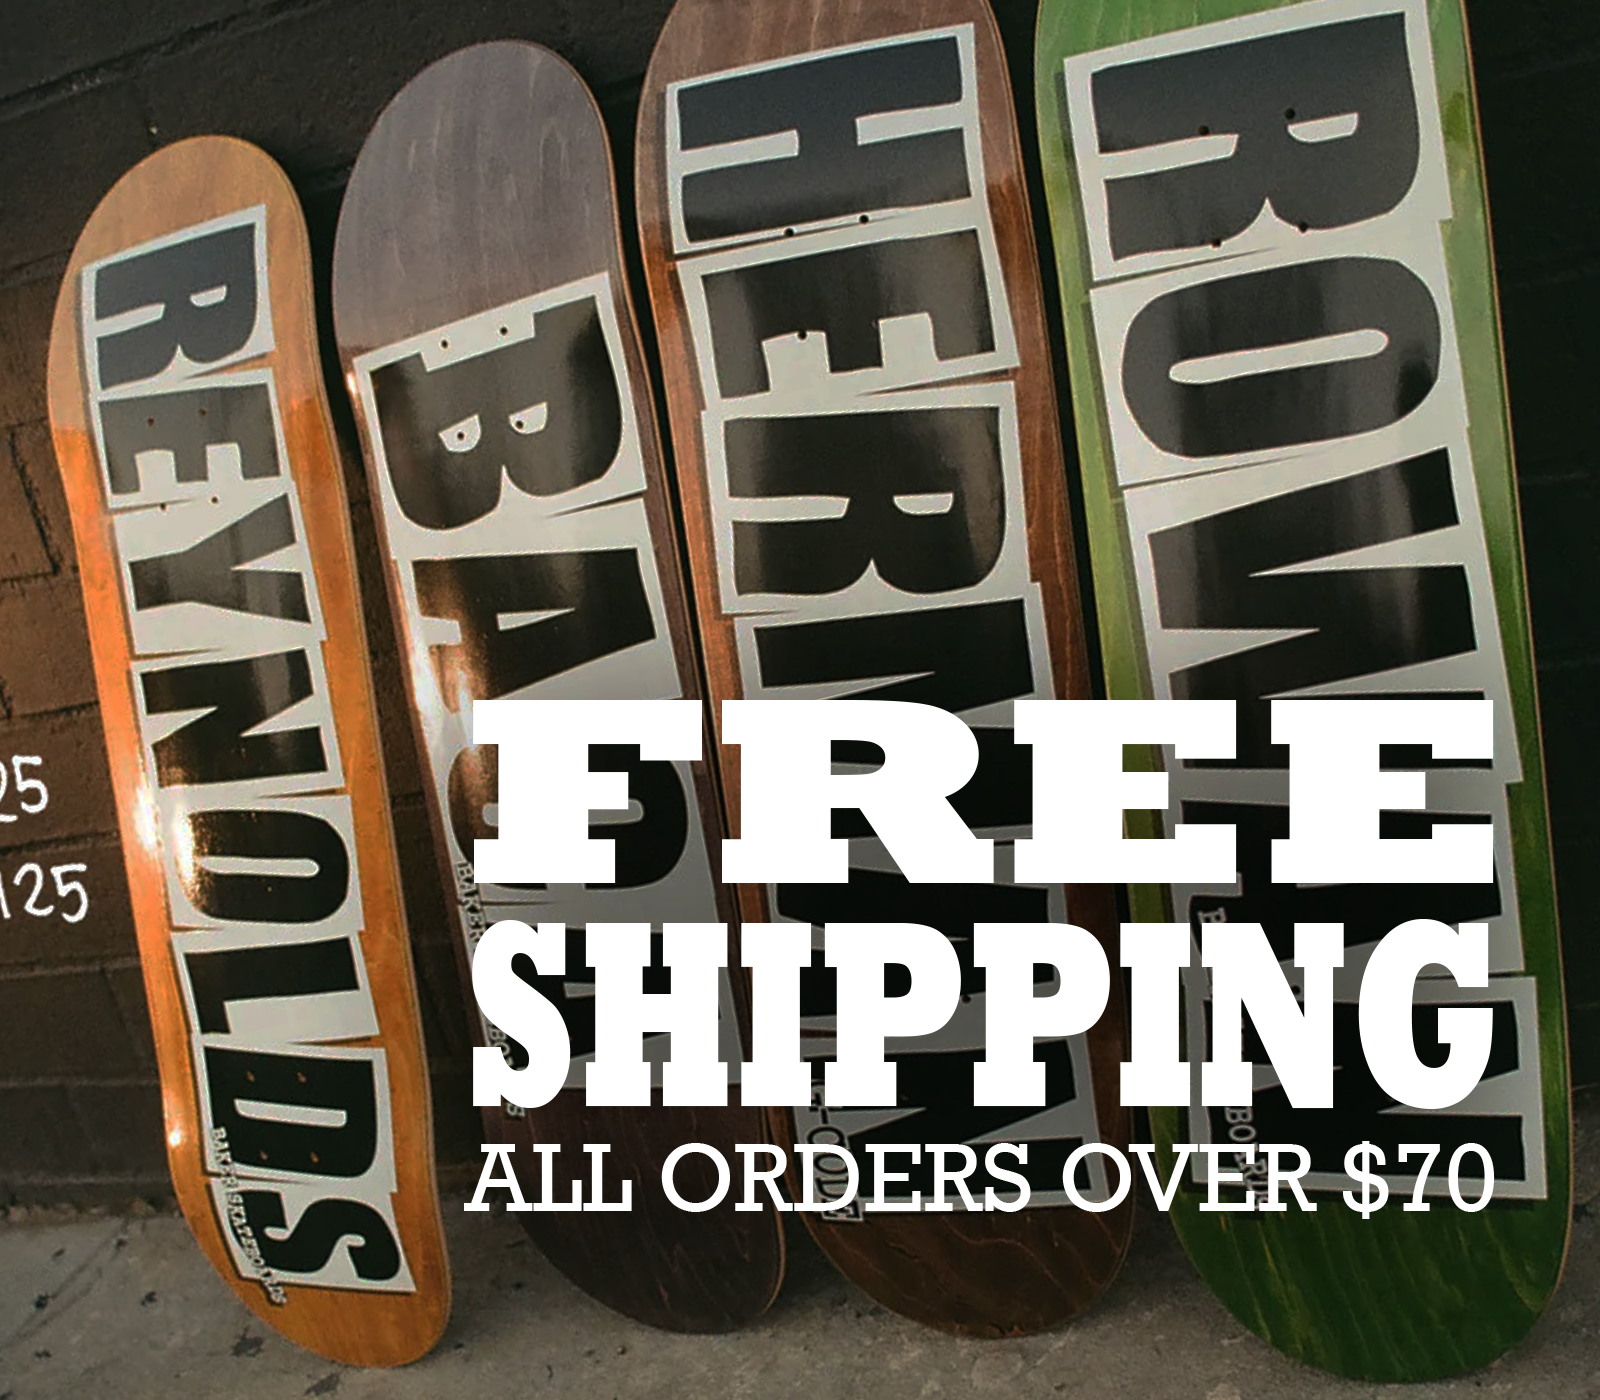
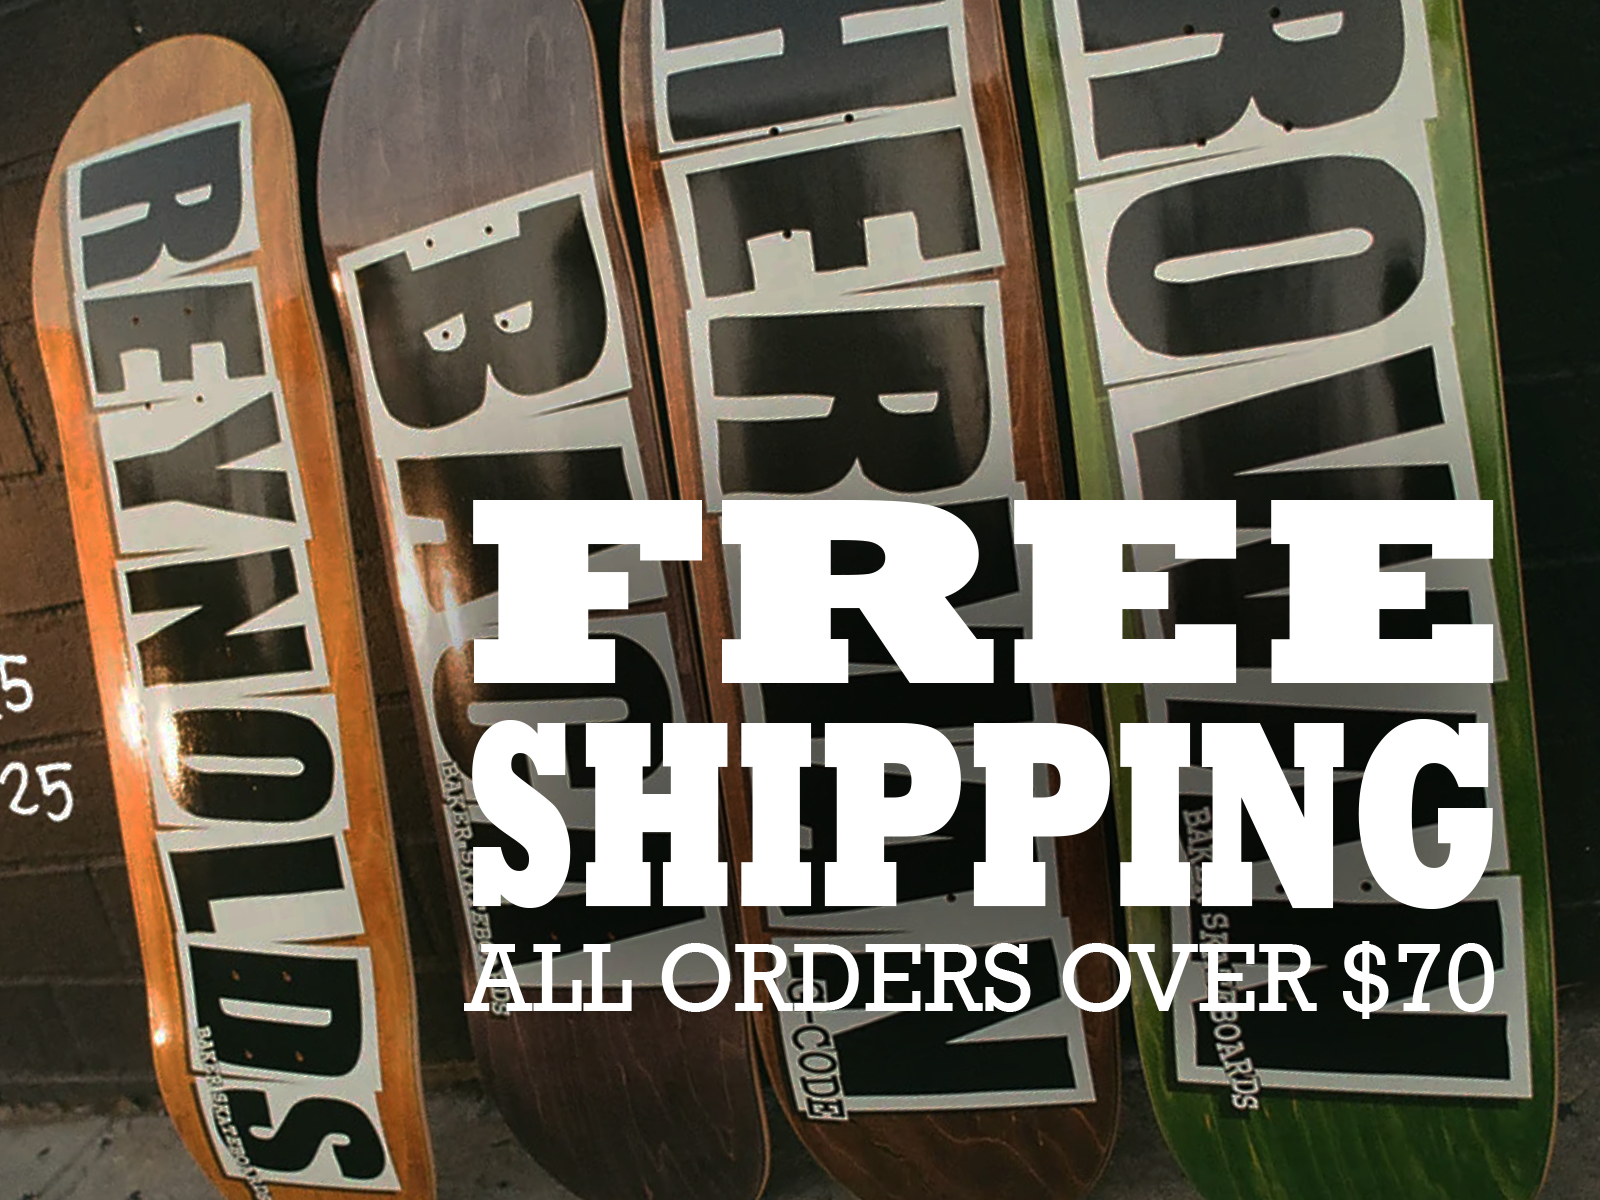
Updated front page

diff --git a/pages/index.tsx b/pages/index.tsx
@@ -6,25 +6,27 @@ import styles from '../styles/Home.module.css';
 
 const Home: NextPage = () => {
 	return (
-		<div className={styles.container}>
+		<div className={styles['container']}>
 			<Head>
 				<title>Skateboard Equipment & More | Bordz</title>
 				<meta name="description" content="bordz" />
 				<link rel="icon" href="/favicon.ico" />
 			</Head>
-			<div>
-				<Link href="/shop/new?brand=12" passHref>
-					<a>
-						<Image src="/promo2.png" alt="promo" layout="responsive" width="1600" height="1200" />
-					</a>
-				</Link>
-			</div>
-			<div>
-				<Link href="/shop/new" passHref>
-					<a>
-						<Image src="/promo1.png" alt="promo" layout="responsive" width="1600" height="1400" />
-					</a>
-				</Link>
+			<div className={styles['promo-container']}>
+				<div>
+					<Link href="/shop/new?brand=12" passHref>
+						<a>
+							<Image src="/promo2.png" alt="promo" width="1600" height="1200" />
+						</a>
+					</Link>
+				</div>
+				<div>
+					<Link href="/shop/new" passHref>
+						<a>
+							<Image src="/promo1.png" alt="promo" width="1600" height="1200" />
+						</a>
+					</Link>
+				</div>
 			</div>
 			<div className={styles['grid']}>
 				<div className={styles['grid-item']}>

diff --git a/styles/Home.module.css b/styles/Home.module.css
@@ -7,6 +7,12 @@
 	padding-bottom: 4px;
 }
 
+.promo-container {
+	display: flex;
+	flex-direction: column;
+	gap: 4px;
+}
+
 .grid {
 	display: grid;
 	grid-template-columns: 1fr 1fr;
@@ -27,4 +33,14 @@
 	font-weight: 400;
 	letter-spacing: 1px;
 	transform: scale(1, 0.95);
+}
+
+@media (min-width: 1024px) {
+	.promo-container {
+		flex-direction: row;
+	}
+
+	.grid {
+		grid-template-columns: 1fr 1fr 1fr;
+	}
 }
